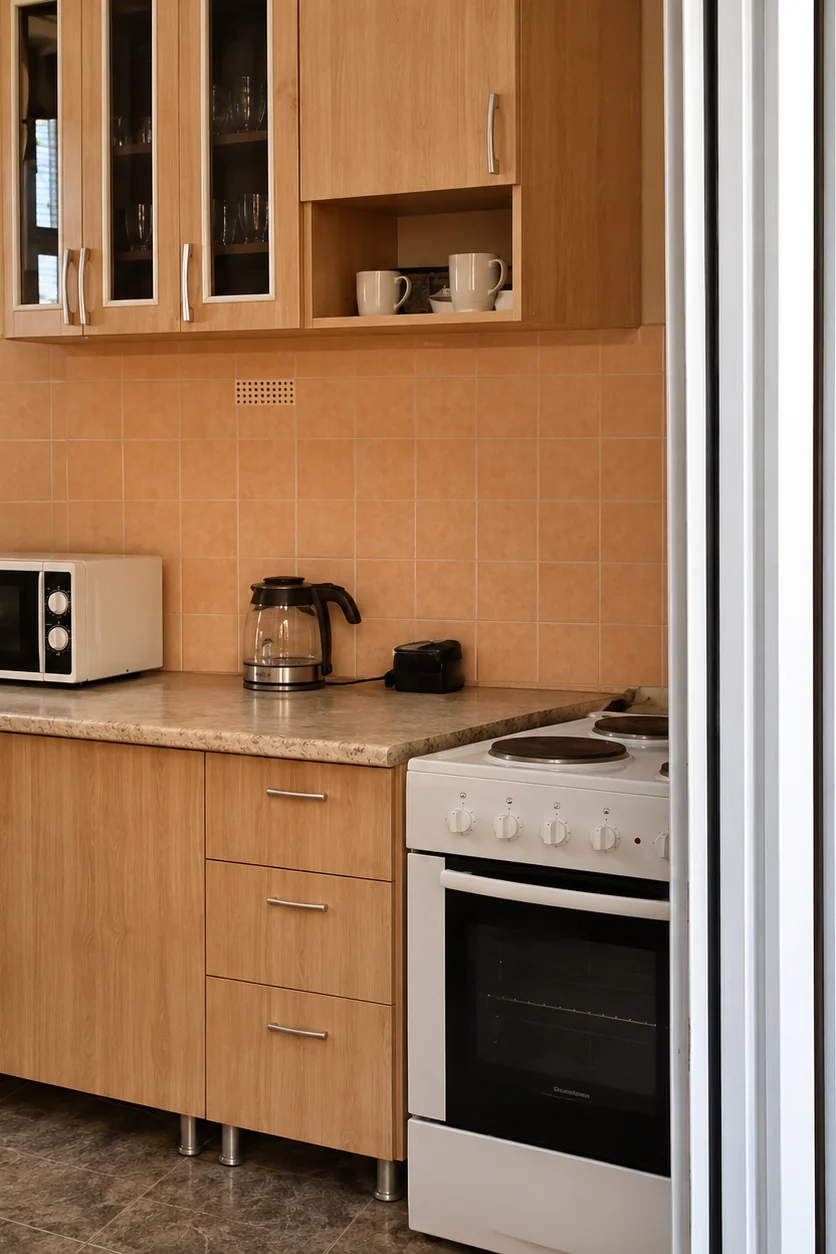
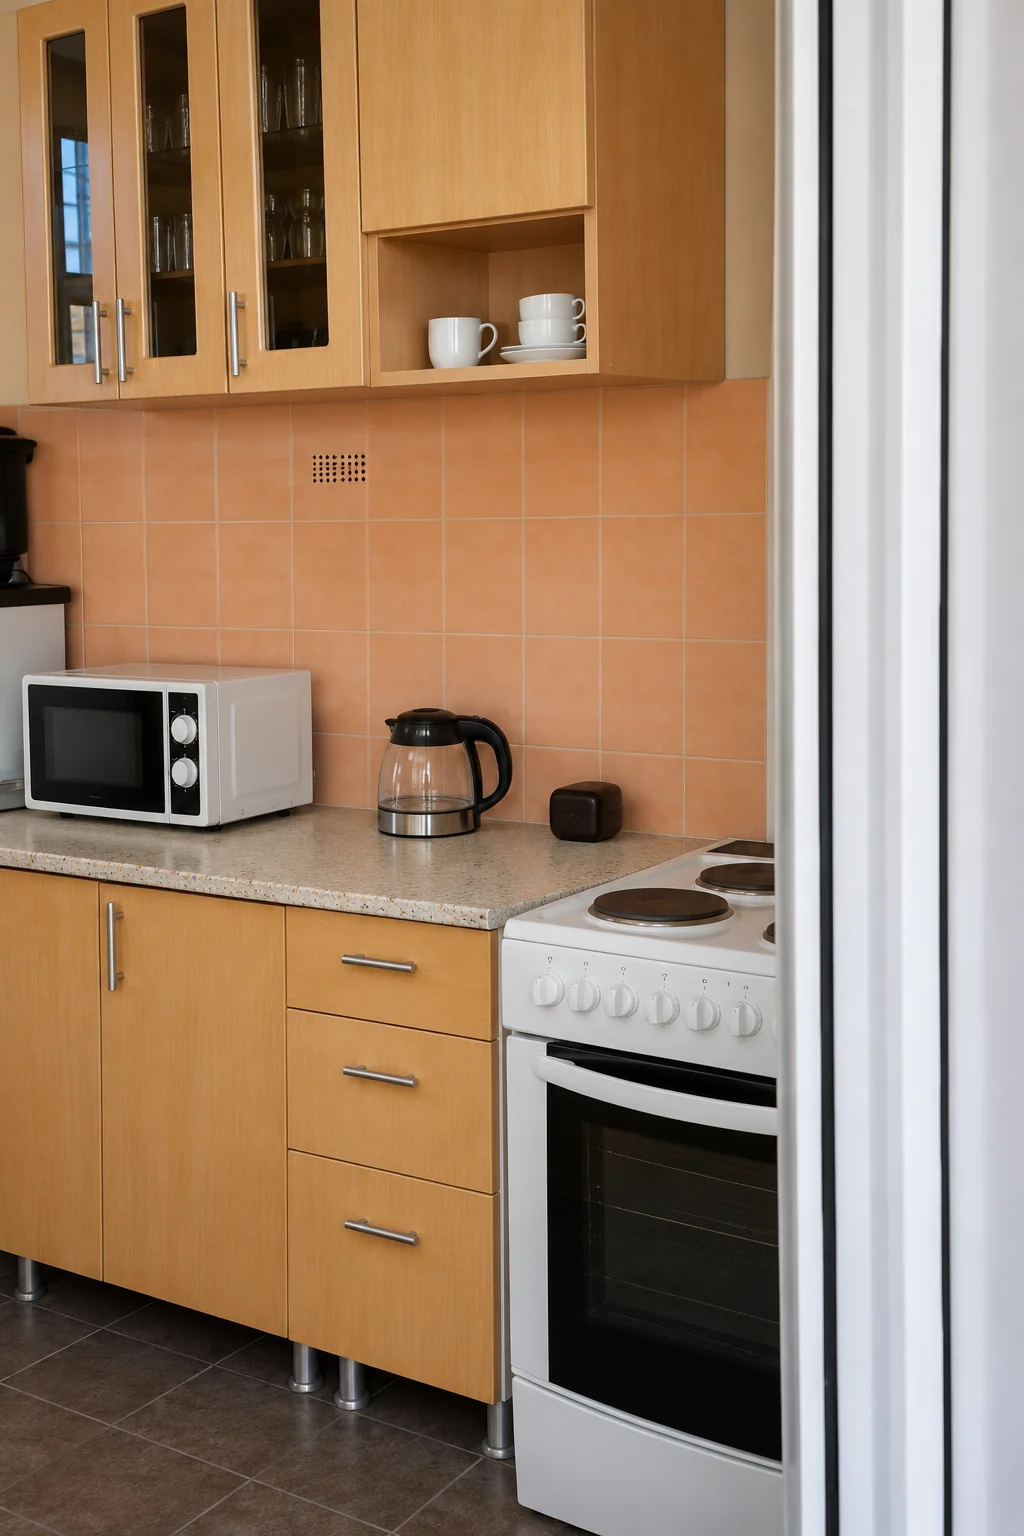
Кухня: три ящика у плиты, микроволновка и прибор слева целиком
Новая перерисовка Codex по кадру из видеотура: три ящика у плиты
(подтвердила хозяйка), микроволновка в кадре, ручка левой дверцы.
Приёмщик: 8/10, замечания только к мелочам; хозяйка одобрила.

diff --git a/index.html b/index.html
@@ -410,7 +410,7 @@
     </div>
     <div class="life__cards">
       <article class="card">
-        <div class="card__img"><img width="800" height="1200" src="assets/img/kitchen-sm.webp" srcset="assets/img/kitchen-sm.webp 800w, assets/img/kitchen-lg.webp 1254w" sizes="(max-width: 900px) 92vw, 440px" alt="Общая кухня со столиками у окон" loading="lazy"></div>
+        <div class="card__img"><img width="800" height="1200" src="assets/img/kitchen-sm.webp" srcset="assets/img/kitchen-sm.webp 800w, assets/img/kitchen-lg.webp 1024w" sizes="(max-width: 900px) 92vw, 440px" alt="Общая кухня со столиками у окон" loading="lazy"></div>
         <div class="card__body"><h3 class="h3">Кухня для ваших рецептов</h3><p>Холодильники, плита, микроволновка, термопот и&nbsp;посуда. У&nbsp;каждого номера — свой столик у&nbsp;окна.</p></div>
       </article>
       <article class="card card--text">

diff --git a/en/index.html b/en/index.html
@@ -394,7 +394,7 @@
     </div>
     <div class="life__cards">
       <article class="card">
-        <div class="card__img"><img width="800" height="1200" src="../assets/img/kitchen-sm.webp" srcset="../assets/img/kitchen-sm.webp 800w, ../assets/img/kitchen-lg.webp 1254w" sizes="(max-width: 900px) 92vw, 440px" alt="Shared kitchen with tables by the windows" loading="lazy"></div>
+        <div class="card__img"><img width="800" height="1200" src="../assets/img/kitchen-sm.webp" srcset="../assets/img/kitchen-sm.webp 800w, ../assets/img/kitchen-lg.webp 1024w" sizes="(max-width: 900px) 92vw, 440px" alt="Shared kitchen with tables by the windows" loading="lazy"></div>
         <div class="card__body"><h3 class="h3">A kitchen for your recipes</h3><p>Fridges, a cooker, a microwave, a hot-water dispenser and cookware. Each room has its own table by the window.</p></div>
       </article>
       <article class="card card--text">
